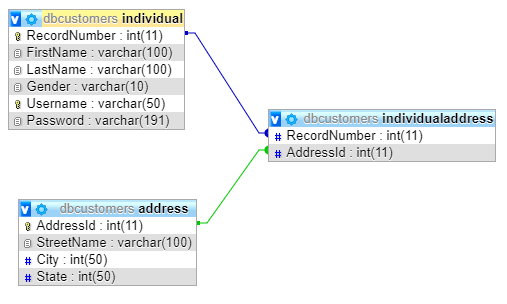
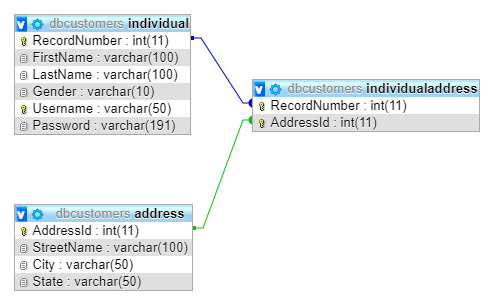
Implementacion de gridview para carga de datos

Changed region(s): [[0.0, 0.0299, 0.992, 0.9867]]

diff --git a/Idw.MergeCustomers.Data/DaoIndividual.cs b/Idw.MergeCustomers.Data/DaoIndividual.cs
@@ -40,8 +40,12 @@ namespace Idw.MergeCustomers.Data
                     {
                         command.CommandType = CommandType.Text;
 
-                        command.CommandText = $"SELECT `RecordNumber`, `FirstName`, `LastName`, `Gender`, `Username`, " +
-                            $"`Password` FROM `individual`";
+                        command.CommandText = $"SELECT " +
+                            $"i.RecordNumber, i.FirstName, i.LastName, i.Gender, a.AddressId, a.StreetName, a.City, a.State " +
+                            $"FROM individual i " +
+                            $"INNER JOIN individualaddress ia ON ia.RecordNumber = i.RecordNumber " +
+                            $"INNER JOIN address a ON a.AddressId = ia.AddressId " +
+                            $"WHERE 1";
 
                         MySqlDataReader res = command.ExecuteReader();
 
@@ -49,12 +53,14 @@ namespace Idw.MergeCustomers.Data
                         {
                             Individual obj = new Individual();
 
-                            obj.RecordNumber = (int)res["RecordNumber"];
-                            obj.FirstName = (string)res["FirstName"];
-                            obj.LastName = (string)res["LastName"];
-                            obj.Gender = (string)res["Gender"];
-                            obj.Username = (string)res["Username"];
-                            obj.Password = (string)res["Password"];
+                            obj.RecordNumber = Convert.ToInt32(res["RecordNumber"]);
+                            obj.FirstName = Convert.ToString(res["FirstName"]);
+                            obj.LastName = Convert.ToString(res["LastName"]);
+                            obj.Gender = Convert.ToString(res["Gender"]);
+                            obj.AddressId = Convert.ToInt32(res["AddressId"]);
+                            obj.StreetName = Convert.ToString(res["StreetName"]);
+                            obj.City = Convert.ToString(res["City"]);
+                            obj.State = Convert.ToString(res["State"]);
 
                             listIndividuals.Add(obj);
                         }

diff --git a/Idw.MergeCustomers.Entities/Individual.cs b/Idw.MergeCustomers.Entities/Individual.cs
@@ -39,6 +39,26 @@ namespace Idw.MergeCustomers.Entities
         private string password;
 
         /// <summary>
+        /// The addressId.
+        /// </summary>
+        private int addressId;
+
+        /// <summary>
+        /// The streetName;
+        /// </summary>
+        private string streetName;
+
+        /// <summary>
+        /// The city.
+        /// </summary>
+        private string city;
+
+        /// <summary>
+        /// The state.
+        /// </summary>
+        private string state;
+
+        /// <summary>
         /// Initializes a new instance of the <see cref="T:Idw.MergeCustomers.Entities.Individual"/> class.
         /// </summary>
         public Individual()
@@ -74,5 +94,25 @@ namespace Idw.MergeCustomers.Entities
         /// Gets or sets the password.
         /// </summary>
         public string Password { get => password; set => password = value; }
+
+        /// <summary>
+        /// Gets or sets the addressId.
+        /// </summary>
+        public int AddressId { get => addressId; set => addressId = value; }
+
+        /// <summary>
+        /// Gets or sets the streetName.
+        /// </summary>
+        public string StreetName { get => streetName; set => streetName = value; }
+
+        /// <summary>
+        /// Gets or sets the city.
+        /// </summary>
+        public string City { get => city; set => city = value; }
+
+        /// <summary>
+        /// Gets or sets the state.
+        /// </summary>
+        public string State { get => state; set => state = value; }
     }
 }
